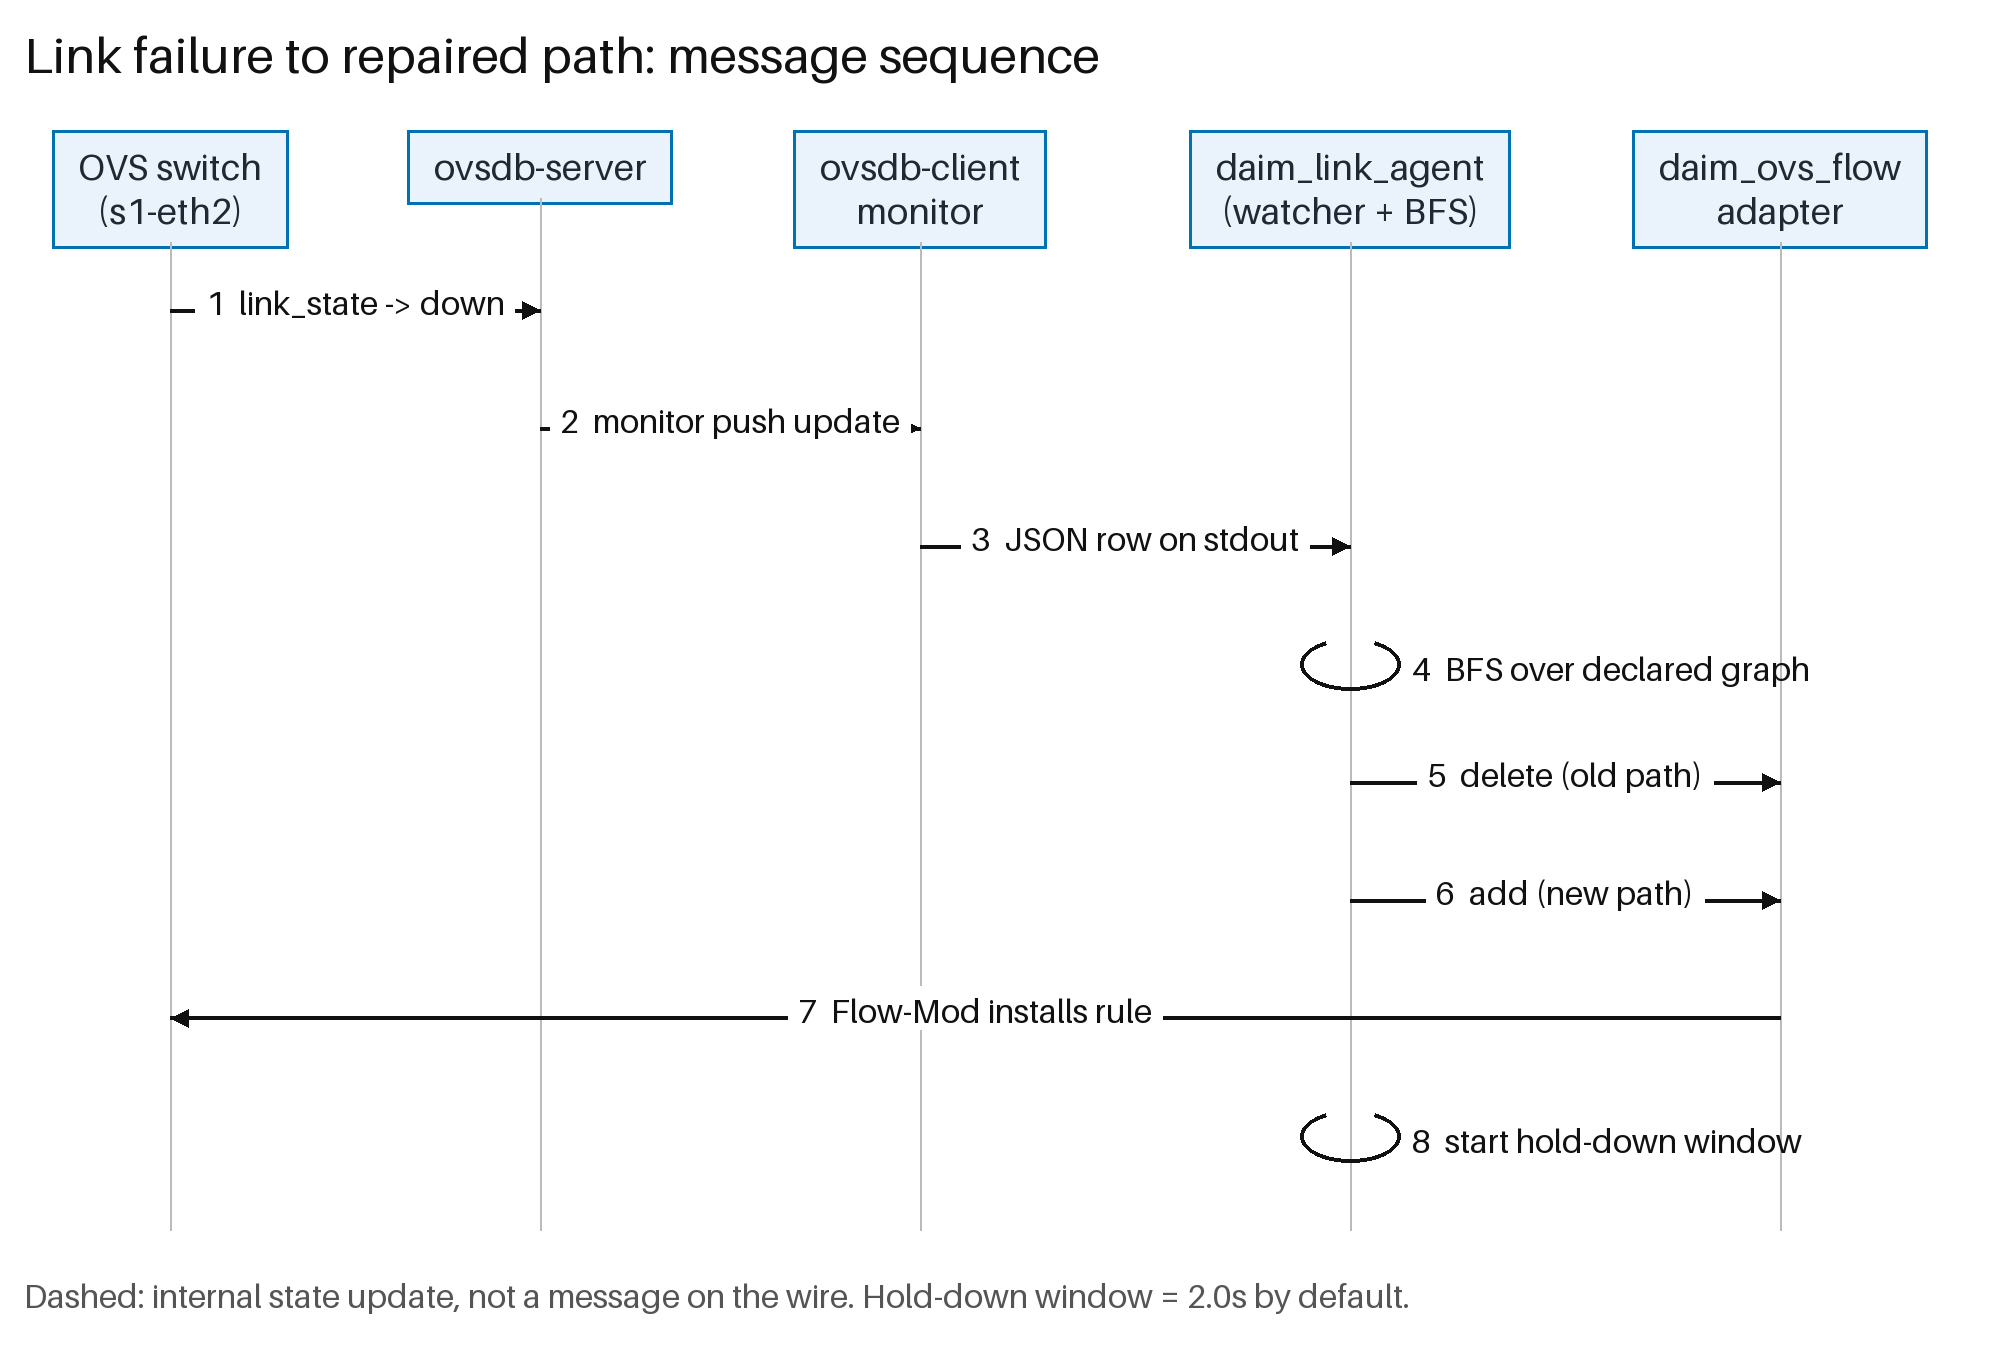
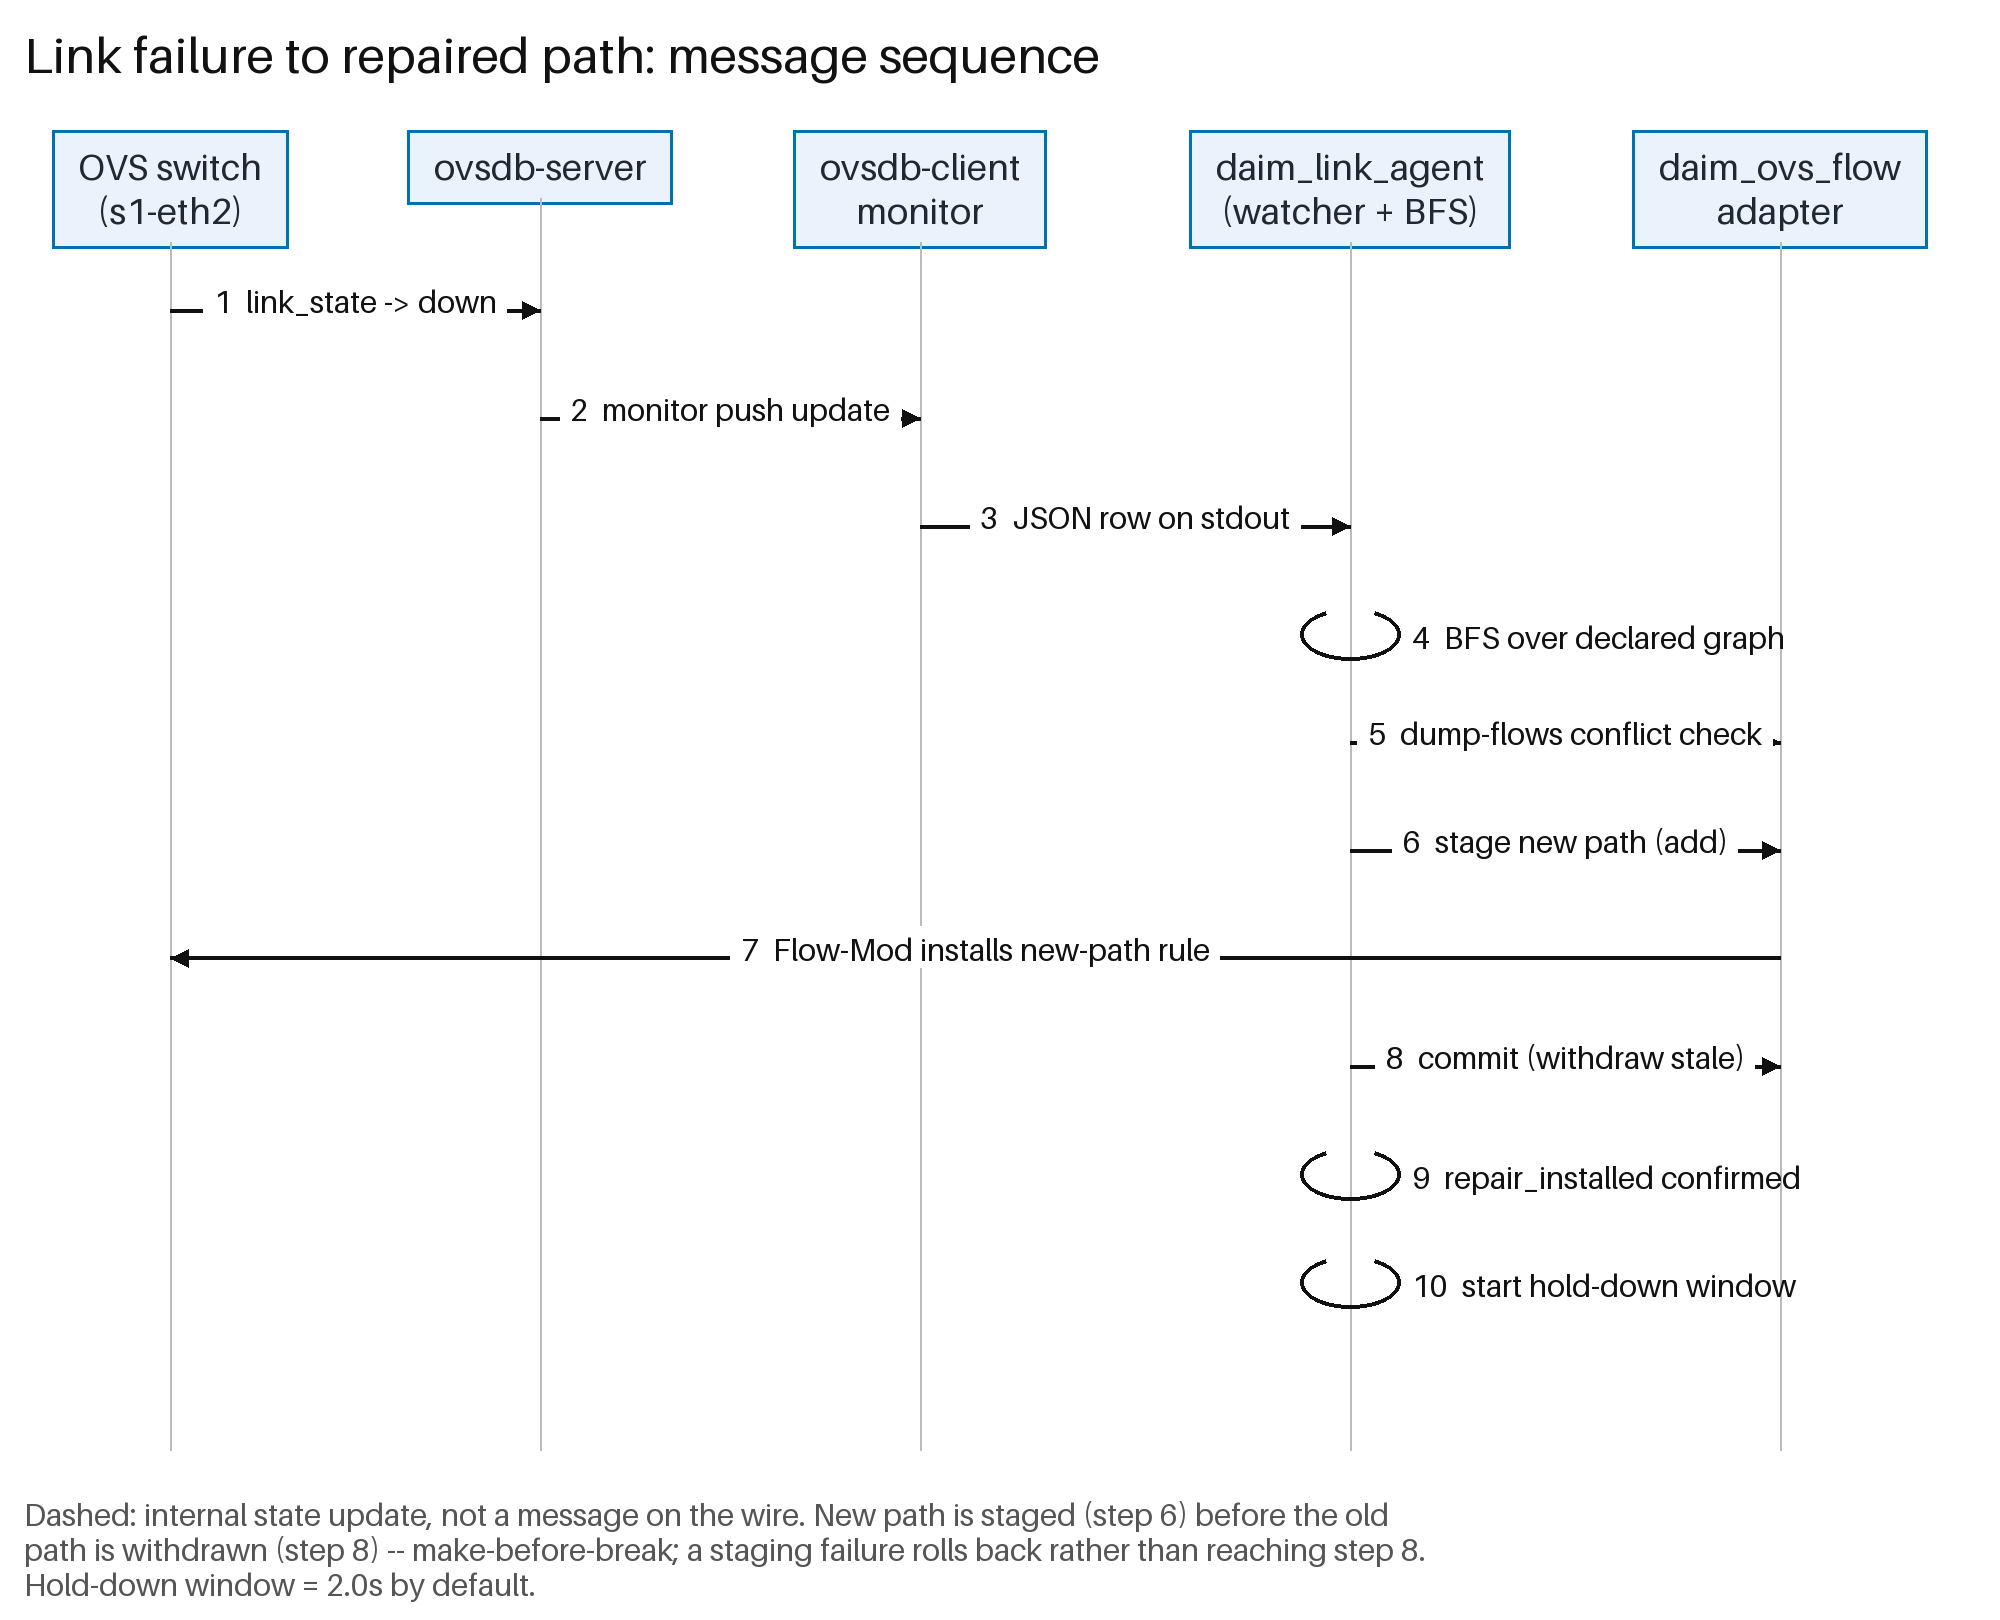
v0.23.0: Figure 2 protocol fix, claim scoping, stopping-rule honesty
A follow-up review of v0.22.0 found four further issues, all fixed
without new measurements:

1. Figure 2 (paper3_sequence.png) still showed the old, unsafe
   delete-old-path-then-add-new-path sequence Section 5.2's two-phase
   protocol replaced. Regenerated to show stage (add) -> Flow-Mod ->
   commit (withdraw stale) -> confirmed -> hold-down. Also fixed a
   rendering bug found while doing this: a long edge label's white
   background box was erasing the arrow line/arrowhead beneath it.

2. Fast-failover's reverse-direction non-recovery had been described as
   fast-failover "structurally cannot" recover it in general, and linked
   to DFR/Periplus as if they shared the limitation. Narrowed everywhere
   to the single-group, local-port configuration actually evaluated,
   since DFR's pre-installed k-shortest backup paths and Periplus's
   per-hop forwarding-graph encoding are not evaluated here and not
   claimed to share this property.

3. The n=20 agent replication had been described as a "predefined
   stopping rule" with the CI "stabilising to a tight, consistent
   precision" -- no numeric target was actually fixed in advance for
   this specific extension. Rewritten everywhere as the pragmatic,
   after-the-fact decision it actually was.

4. A real logic discrepancy between the manuscript and the code:
   repair_failed (BFS finds no alternate path) does not set current_path
   to None -- that is execute_repair()'s own contract for a
[…]

diff --git a/analysis/paper3_analysis.py b/analysis/paper3_analysis.py
@@ -208,12 +208,12 @@ def draw_architecture(path):
 # ------------------------------------------------------------- Figure 2 ----
 
 def draw_sequence(path):
-    width, height = 2000, 1350
+    width, height = 2000, 1620
     image = Image.new("RGB", (width, height), "white")
     draw = ImageDraw.Draw(image)
     title_font = ImageFont.load_default(size=50)
     font = ImageFont.load_default(size=36)
-    small = ImageFont.load_default(size=33)
+    small = ImageFont.load_default(size=31)
 
     draw.text((24, 24), "Link failure to repaired path: message sequence", fill="#111111", font=title_font)
 
@@ -225,7 +225,7 @@ def draw_sequence(path):
         ("daim_ovs_flow\nadapter", 1780),
     ]
     top_y = 130
-    bottom_y = 1230
+    bottom_y = 1450
     for name, x in actors:
         tw, th = text_block_size(draw, name, font)
         box(draw, (x - tw / 2 - 26, top_y, x + tw / 2 + 26, top_y + th + 30), name, font, fill="#EAF2FB", outline="#0072B2")
@@ -237,13 +237,15 @@ def draw_sequence(path):
         ("ovsdb-server", "ovsdb-client\nmonitor", "2  monitor push update", False),
         ("ovsdb-client\nmonitor", "daim_link_agent\n(watcher + BFS)", "3  JSON row on stdout", False),
         ("daim_link_agent\n(watcher + BFS)", "daim_link_agent\n(watcher + BFS)", "4  BFS over declared graph", False),
-        ("daim_link_agent\n(watcher + BFS)", "daim_ovs_flow\nadapter", "5  delete (old path)", False),
-        ("daim_link_agent\n(watcher + BFS)", "daim_ovs_flow\nadapter", "6  add (new path)", False),
-        ("daim_ovs_flow\nadapter", "OVS switch\n(s1-eth2)", "7  Flow-Mod installs rule", False),
-        ("daim_link_agent\n(watcher + BFS)", "daim_link_agent\n(watcher + BFS)", "8  start hold-down window", True),
+        ("daim_link_agent\n(watcher + BFS)", "daim_ovs_flow\nadapter", "5  dump-flows conflict check", False),
+        ("daim_link_agent\n(watcher + BFS)", "daim_ovs_flow\nadapter", "6  stage new path (add)", False),
+        ("daim_ovs_flow\nadapter", "OVS switch\n(s1-eth2)", "7  Flow-Mod installs new-path rule", False),
+        ("daim_link_agent\n(watcher + BFS)", "daim_ovs_flow\nadapter", "8  commit (withdraw stale)", False),
+        ("daim_link_agent\n(watcher + BFS)", "daim_link_agent\n(watcher + BFS)", "9  repair_installed confirmed", False),
+        ("daim_link_agent\n(watcher + BFS)", "daim_link_agent\n(watcher + BFS)", "10  start hold-down window", True),
     ]
     y = 310
-    step_h = 118
+    step_h = 108
     for src, dst, label, dashed in steps:
         x0, x1 = xs[src], xs[dst]
         if x0 == x1:
@@ -254,8 +256,10 @@ def draw_sequence(path):
         y += step_h
 
     draw.text(
-        (24, 1275),
-        f"Dashed: internal state update, not a message on the wire. Hold-down window = {HOLD_DOWN_SECONDS:.1f}s by default.",
+        (24, bottom_y + 45),
+        f"Dashed: internal state update, not a message on the wire. New path is staged (step 6) before the old\n"
+        f"path is withdrawn (step 8) -- make-before-break; a staging failure rolls back rather than reaching step 8.\n"
+        f"Hold-down window = {HOLD_DOWN_SECONDS:.1f}s by default.",
         fill="#555555", font=small,
     )
     image.save(path)

diff --git a/README.md b/README.md
@@ -201,6 +201,34 @@ uses them.
   — the two formal-baseline harnesses and their raw data from the v0.18.0
   experiments described below.
 
+## Second-pass final-review fixes: Figure 2, claim scoping, stopping-rule honesty (v0.23.0)
+
+A follow-up review of the v0.22.0 manuscript (accepting the n=20 extension and Wilson CIs as
+sufficient) found four further issues, all fixed without new measurements. (1) Figure 2
+(`results/paper3/paper3_sequence.png`) still showed the OLD, unsafe delete-old-path-then-add-new-path
+sequence Section 5.2's two-phase protocol replaced -- regenerated to show stage (add) -> Flow-Mod ->
+commit (withdraw stale) -> confirmed -> hold-down, matching the actual current protocol; a rendering
+bug found while fixing this (a long edge label's white background box was erasing the arrow beneath
+it) was also fixed. (2) The fast-failover baseline's reverse-direction non-recovery had been
+described in places as fast-failover "structurally cannot" recover it in general, and linked to DFR/
+Periplus as if they shared the same limitation -- narrowed everywhere to "the single-group, local-port
+configuration evaluated here," since DFR's pre-installed k-shortest backup paths and Periplus's
+per-hop forwarding-graph encoding are not evaluated in this paper and are not claimed to share this
+property. (3) The n=20 replication's own description called it a "predefined stopping rule" with a
+numeric target "stabilising to a tight, consistent precision" -- honest reporting requires either
+stating the actual pre-registered numeric threshold or describing the extension as the pragmatic,
+after-the-fact decision it actually was; fixed to the latter, everywhere it appeared (this repository,
+the manuscript, `paper3_service_restoration_statistics.py`'s own module docstring is unaffected since
+it never used the "predefined" framing). (4) A real logic discrepancy between the manuscript and the
+code: `repair_failed` (BFS finds no alternate path) does not set `current_path` to `None` -- that is
+`execute_repair()`'s own contract for a flow-installation failure, a different code path entirely;
+`repair_failed` leaves `current_path` unchanged (still recording the now-broken old path), and
+`maybe_retry_repair()`'s periodic-tick check (`current_path` traverses a down edge) means the agent
+keeps retrying BFS every tick indefinitely for a genuinely unrecoverable topology like `linear_10`,
+not "taking no further action" as previously described.
+
+No agent-logic changes; 33/33 existing unit tests still pass.
+
 ## Agent unified-restoration replication extended to n=20, and final-review fixes (v0.22.0)
 
 A full external Q1-style review of the compressed manuscript (v0.20.0/v0.21.0-era text) found that
@@ -209,9 +237,9 @@ formula used throughout this evidence set, this left the headline agent-vs-basel
 distribution represented by only three observations -- a deeper concern than that formula addresses,
 given the reported statistics are the median, its bootstrap CI, and the unpaired Mann-Whitney test
 rather than the mean. `network/stage3_service_restoration_unified.py` was re-run for 17 further agent
-repetitions under a predefined stopping rule matched to those estimators (continue until the
-bootstrap 95% CI on the median stabilises to a tight, consistent precision); it did, at n=20 (CI
-half-width ~2.5% of the median). All 17 additional repetitions recovered both directions cleanly.
+repetitions (no numeric target was fixed in advance for this specific extension); the result was
+then re-examined at n=20, where the bootstrap 95% CI on the median is ~2.5% of the median -- tight
+and stable compared to the wider, less certain estimate n=3 supported. All 17 additional repetitions recovered both directions cleanly.
 `analysis/paper3_service_restoration_statistics.py` was extended with Wilson score 95% confidence
 intervals for every recovery-rate proportion, since several are 0/n or n/n and a bare percentage
 understates the real uncertainty at these sample sizes.

diff --git a/results/network/STAGE3_SERVICE_RESTORATION_UNIFIED_REPORT.md b/results/network/STAGE3_SERVICE_RESTORATION_UNIFIED_REPORT.md
@@ -62,11 +62,12 @@ supporting this attribution. 39 valid fast-failover repetitions are reported.
 agent's pilot n=3 satisfied the mean/CV-based formula above, this left the headline
 agent-vs-baseline comparison's own distribution represented by only three observations -- a deeper
 concern than that formula addresses, given the reported statistics are the median, its bootstrap CI,
-and the unpaired Mann-Whitney test rather than the mean. 17 further agent repetitions were run
-(`stage3_service_restoration_unified.py agent 17 4`) under a predefined stopping rule matched to
-those estimators: continue in batches until the bootstrap 95% CI on the median stabilises to a
-tight, consistent precision. It did, at n=20 (CI half-width approximately 2.5% of the median), so
-collection stopped there. All 17 additional repetitions recovered both directions cleanly (20/20
+and the unpaired Mann-Whitney test rather than the mean. 17 further agent repetitions were
+pragmatically run (`stage3_service_restoration_unified.py agent 17 4`; no numeric target was fixed
+in advance for this specific extension), then the result re-examined: at the resulting n=20, the
+bootstrap 95% CI on the median is approximately 2.5% of the median -- tight and stable compared to
+the wider, less certain estimate n=3 supported -- so collection stopped there. All 17 additional
+repetitions recovered both directions cleanly (20/20
 forward, 20/20 reverse). The controller-driven and fast-failover datasets were not re-run, since
 their own precision was already established and this review did not raise a concern specific to
 them. All numbers below reflect the n=20 agent dataset.
